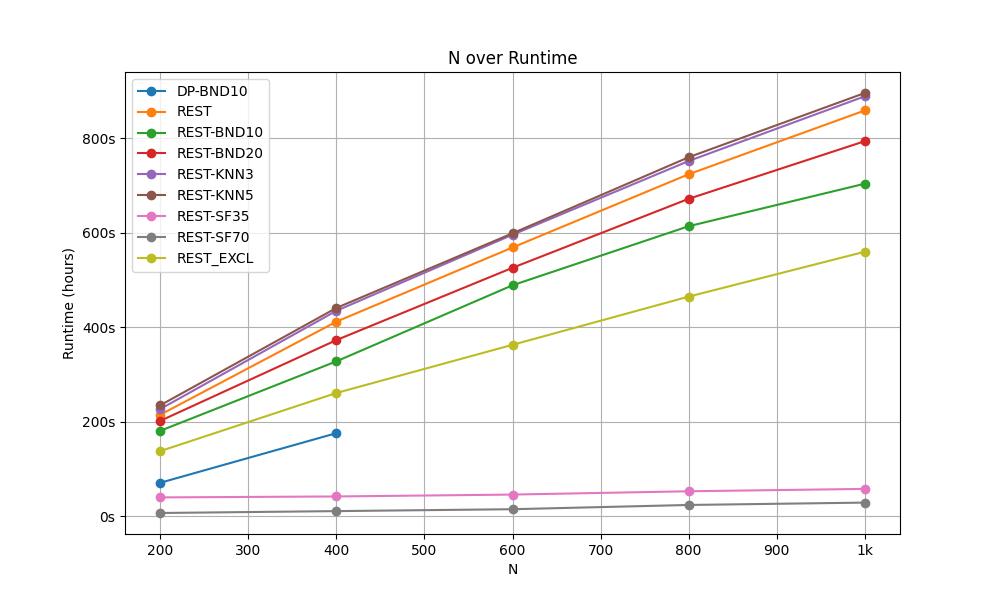
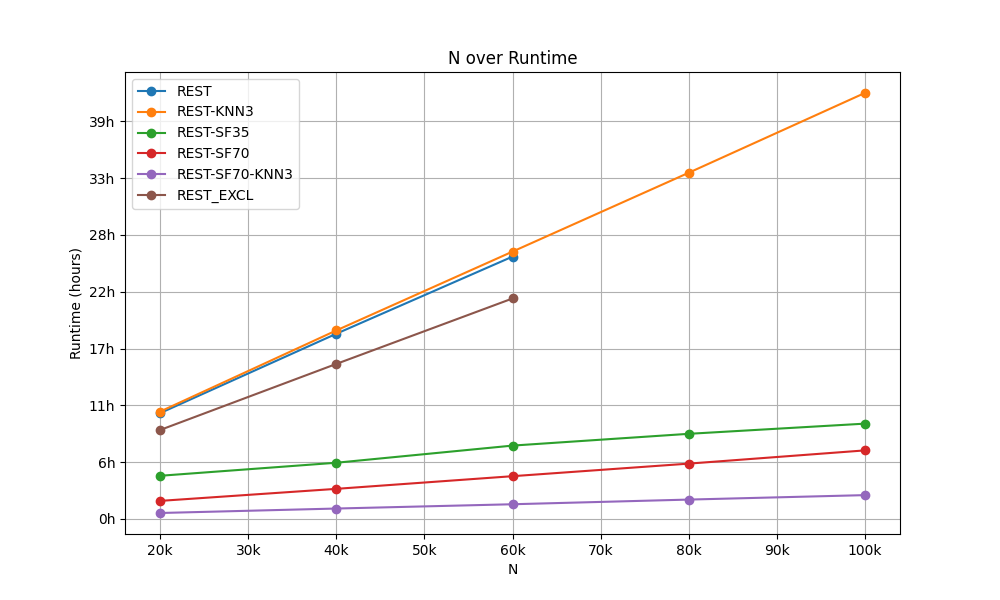
plotting

diff --git a/plotting/plot.py b/plotting/plot.py
@@ -9,8 +9,8 @@ def format_1k(value):
     return f'{int(value/1000)}k' if value >= 1000 else str(int(value))
 def format_seconds_minutes(value):
     # Convert seconds to hours and format the number with two decimal places
-    hours = value  # Convert seconds to hours
-    return f'{hours:.0f}s'  # Format the result as a float with two decimals followed by 'h'
+    hours = value / 3600  # Convert seconds to hours
+    return f'{hours:.0f}h'  # Format the result as a float with two decimals followed by 'h'
 
 def plot_grouped_data(df, group_column, x_column, y_column, path, titles, x_format, y_format):
     grouped_data = df.groupby(group_column)
@@ -43,7 +43,7 @@ titles = {
     'y': 'Runtime (hours)',
     'x': 'N',
 }
-file_path = '../algo/out/intermediate.txt'
+file_path = 'tmp.csv'
 plot_grouped_data(pd.read_csv(file_path), 'mode', 'n', 'seconds', 'n_runtime.png', titles, format_1k, format_seconds_minutes)
 plot_grouped_data(
     pd.read_csv(file_path),
